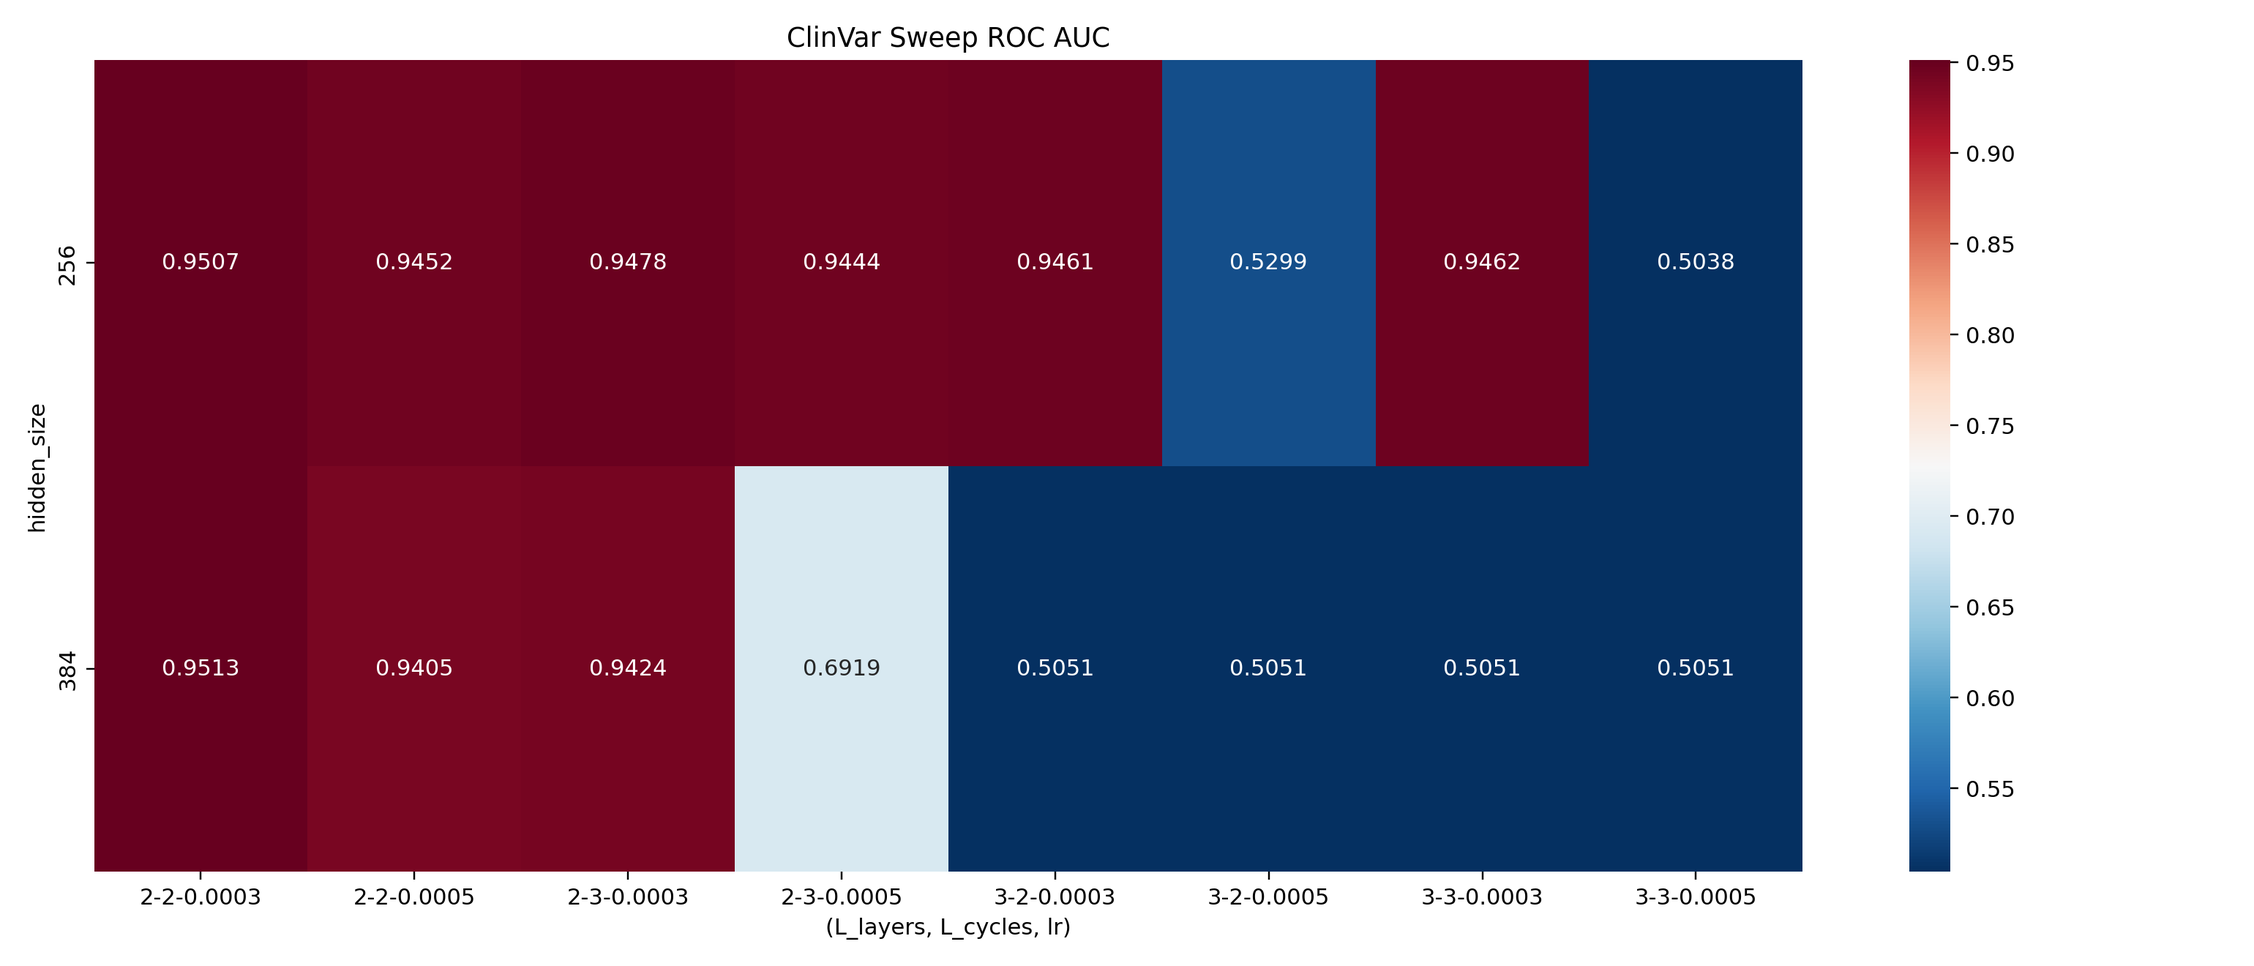
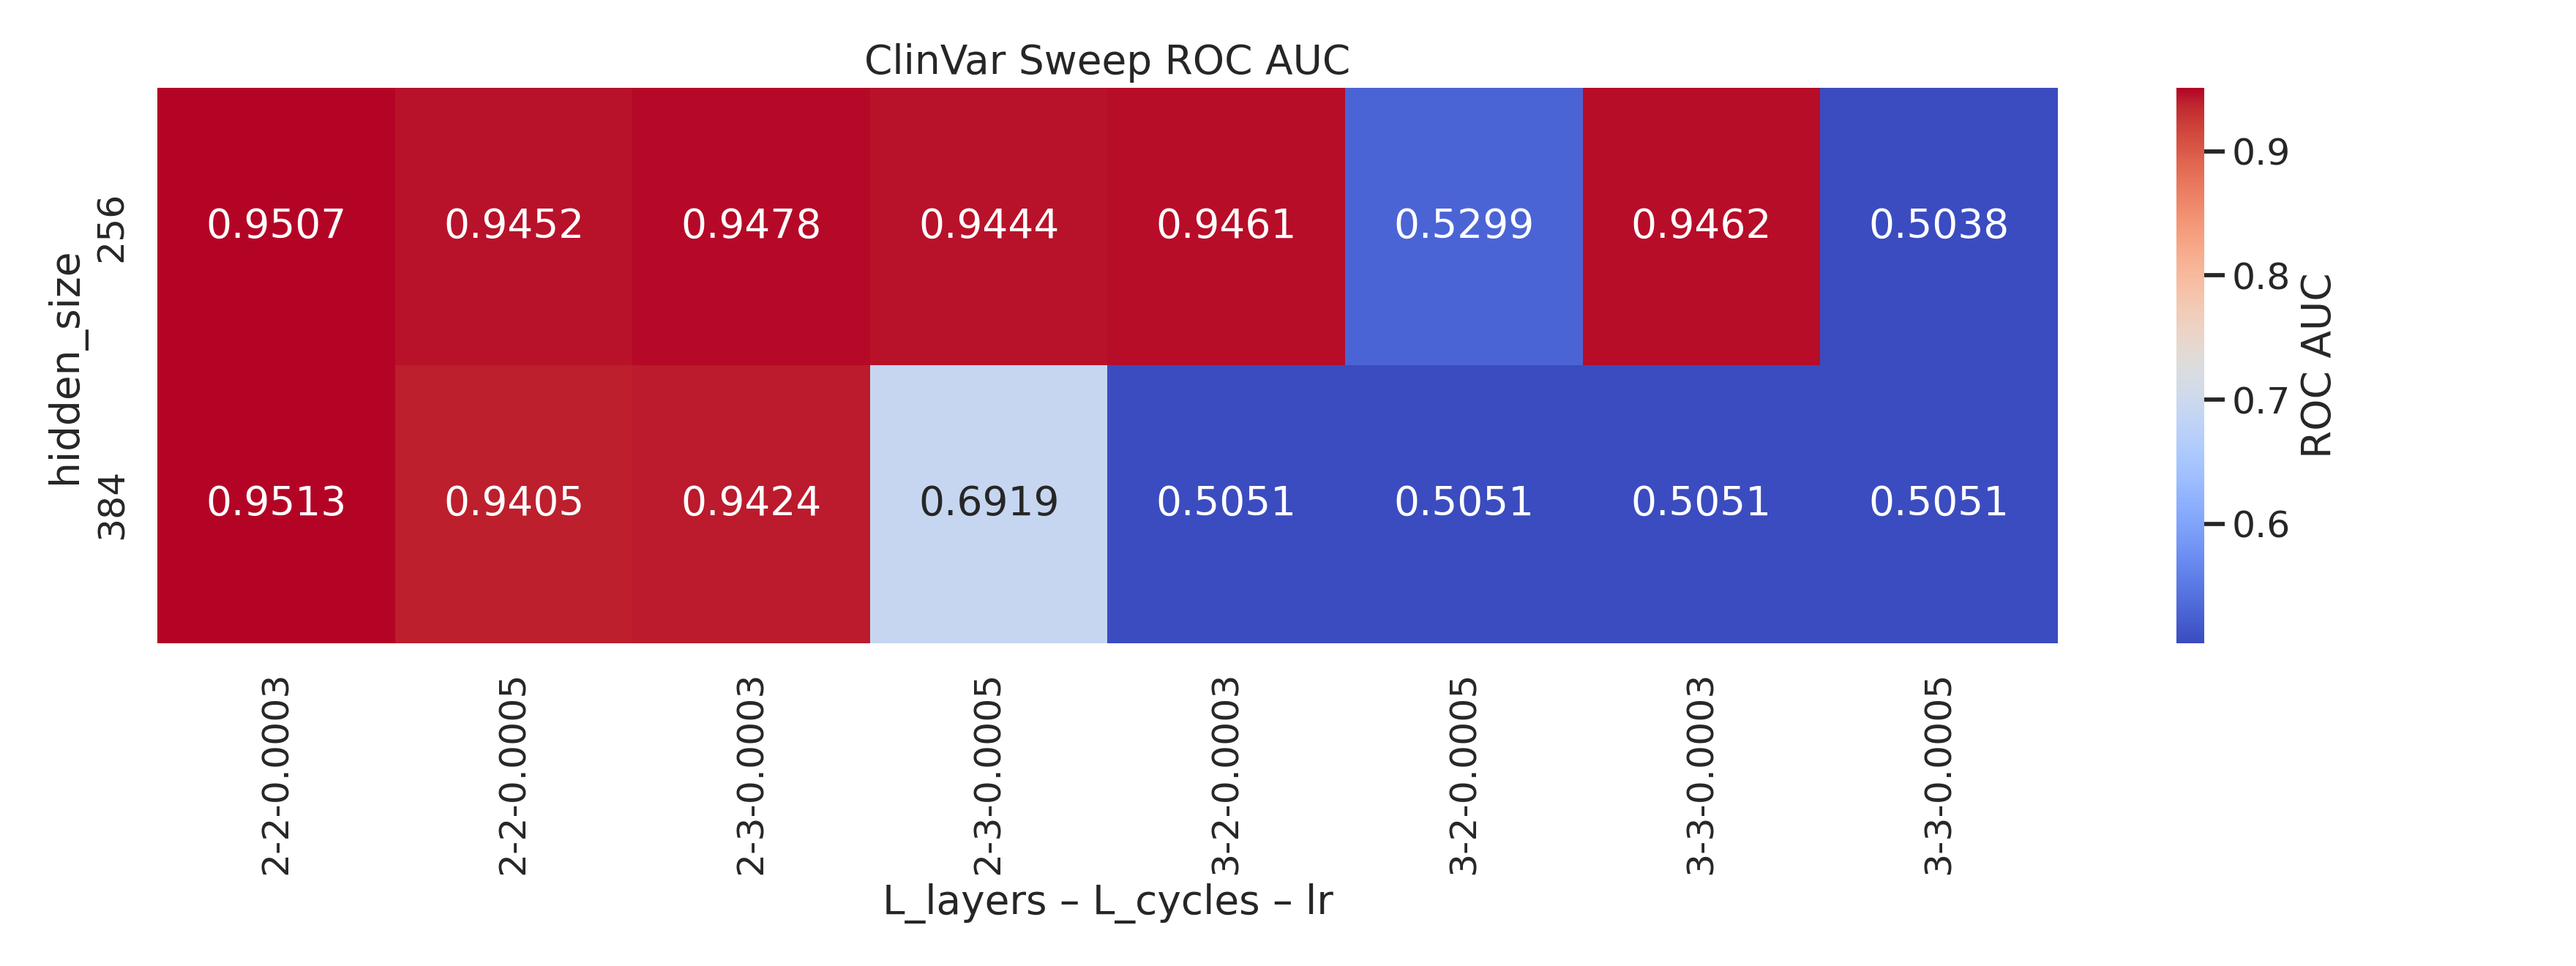
Restyle sweep heatmap with diverging palette

diff --git a/scripts/plot_sweep_results.py b/scripts/plot_sweep_results.py
@@ -10,32 +10,49 @@ import matplotlib.pyplot as plt
 
 DEFAULT_OUTPUT = Path("docs/figures/clinvar_sweep_heatmap.png")
 
-PALETTES = {
-    "viridis": "viridis",
-    "redblue": "RdBu_r",
-    "reds": "Reds",
-    "custom": ["#4575b4", "#74add1", "#fdae61", "#d73027"]
-}
-
 
 def parse_args() -> argparse.Namespace:
     parser = argparse.ArgumentParser(description=__doc__)
     parser.add_argument("--csv", type=Path, default=Path("sweep_summary.csv"))
     parser.add_argument("--output", type=Path, default=DEFAULT_OUTPUT)
-    parser.add_argument("--palette", type=str, default="RdBu_r", help="Matplotlib colormap name.")
+    parser.add_argument(
+        "--palette",
+        type=str,
+        default="coolwarm",
+        help="Matplotlib colormap name (diverging palettes like 'coolwarm' or 'RdYlBu_r' work well).",
+    )
     return parser.parse_args()
 
 
 def main() -> None:
     args = parse_args()
     df = pd.read_csv(args.csv)
-    pivot = df.pivot_table(values="roc_auc", index="hidden_size", columns=["L_layers", "L_cycles", "lr"])
 
-    plt.figure(figsize=(14, 6))
-    sns.heatmap(pivot, annot=True, fmt=".4f", cmap=args.palette)
+    # Bring columns into a tidy string for readability on the axis
+    df["combo"] = df.apply(
+        lambda r: f"{int(r['L_layers'])}-{int(r['L_cycles'])}-{r['lr']:.4f}".rstrip("0").rstrip("."),
+        axis=1,
+    )
+    pivot = (
+        df.pivot_table(values="roc_auc", index="hidden_size", columns="combo")
+        .sort_index(axis=0)
+        .sort_index(axis=1)
+    )
+
+    sns.set_theme(style="white", context="talk")
+    plt.figure(figsize=(16, 6))
+    heatmap = sns.heatmap(
+        pivot,
+        annot=True,
+        fmt=".4f",
+        cmap=args.palette,
+        vmin=df["roc_auc"].min(),
+        vmax=df["roc_auc"].max(),
+        cbar_kws={"label": "ROC AUC"},
+    )
+    heatmap.set_ylabel("hidden_size")
+    heatmap.set_xlabel("L_layers – L_cycles – lr")
     plt.title("ClinVar Sweep ROC AUC")
-    plt.ylabel("hidden_size")
-    plt.xlabel("(L_layers, L_cycles, lr)")
     plt.tight_layout()
     args.output.parent.mkdir(parents=True, exist_ok=True)
     plt.savefig(args.output, dpi=220)
